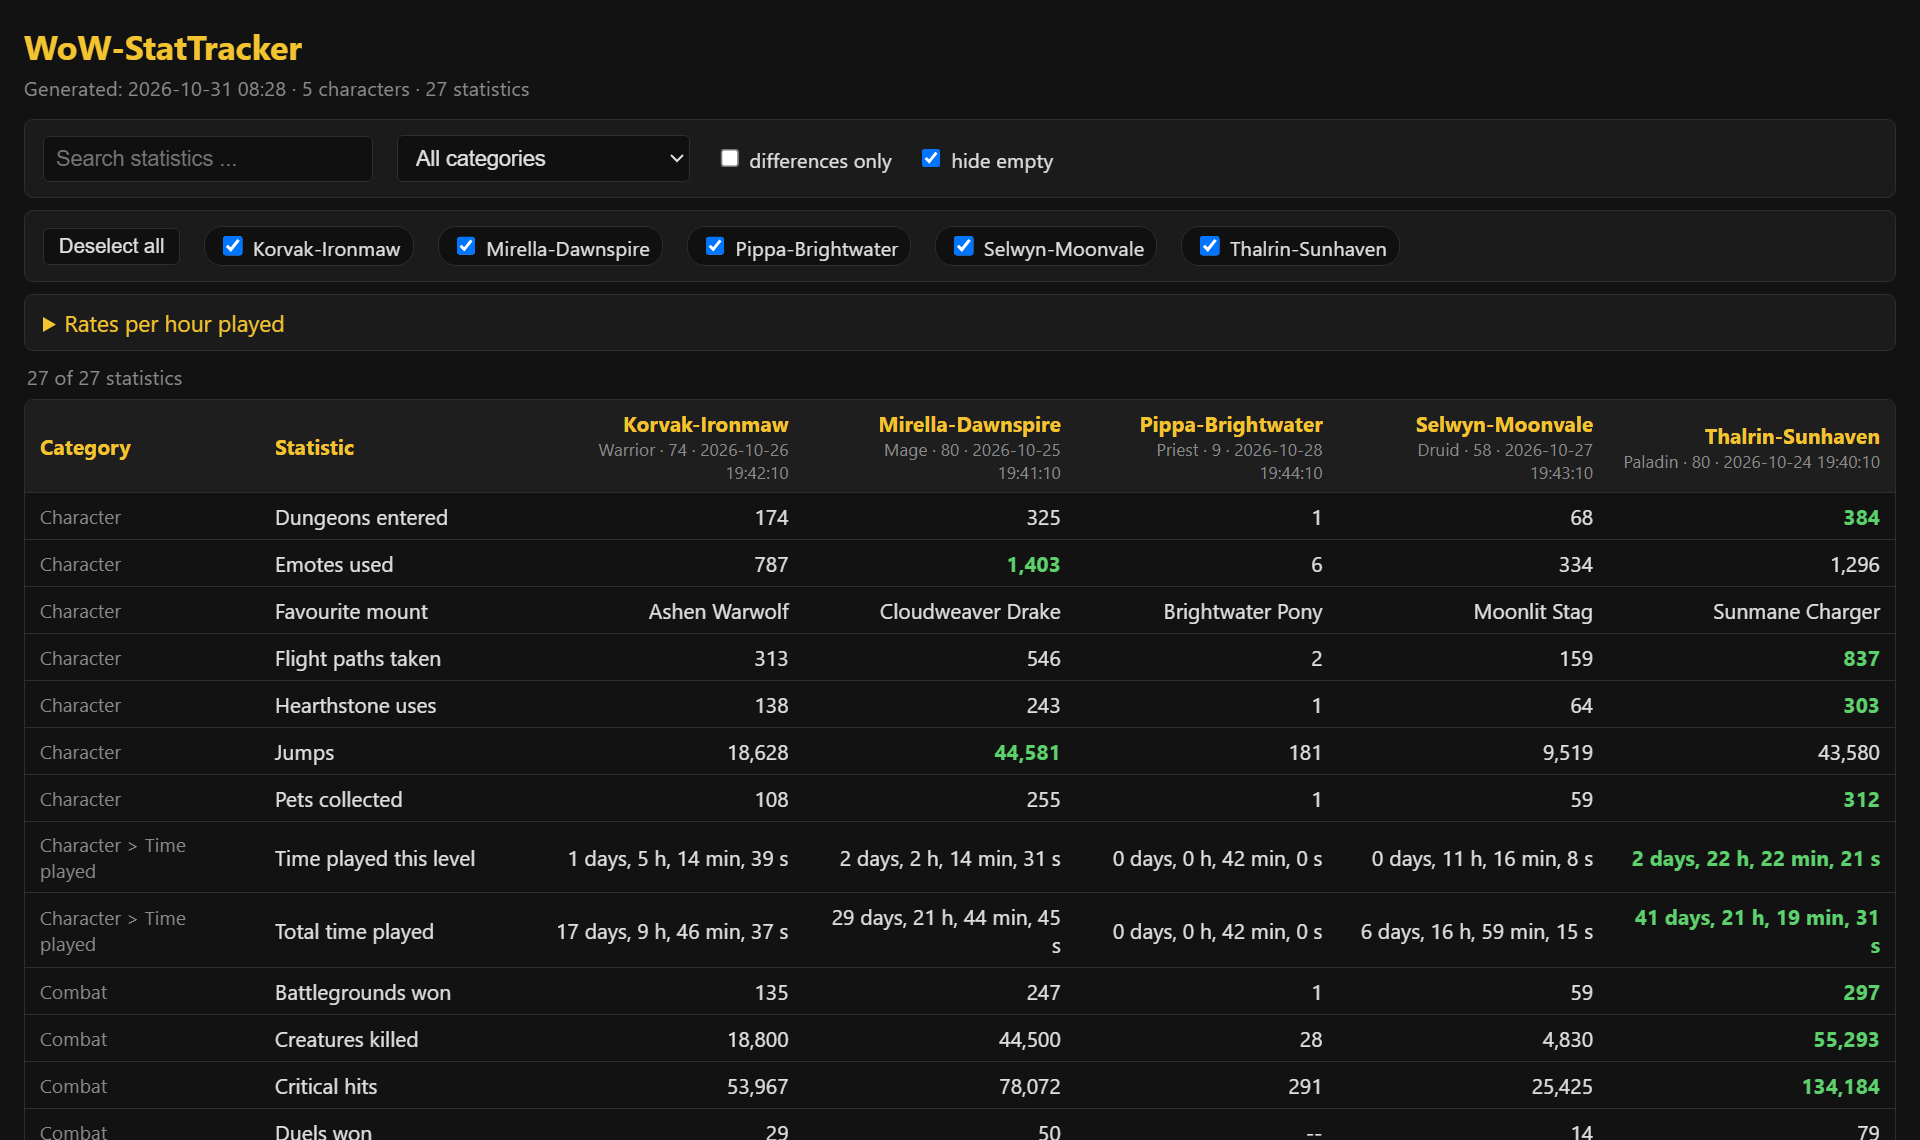
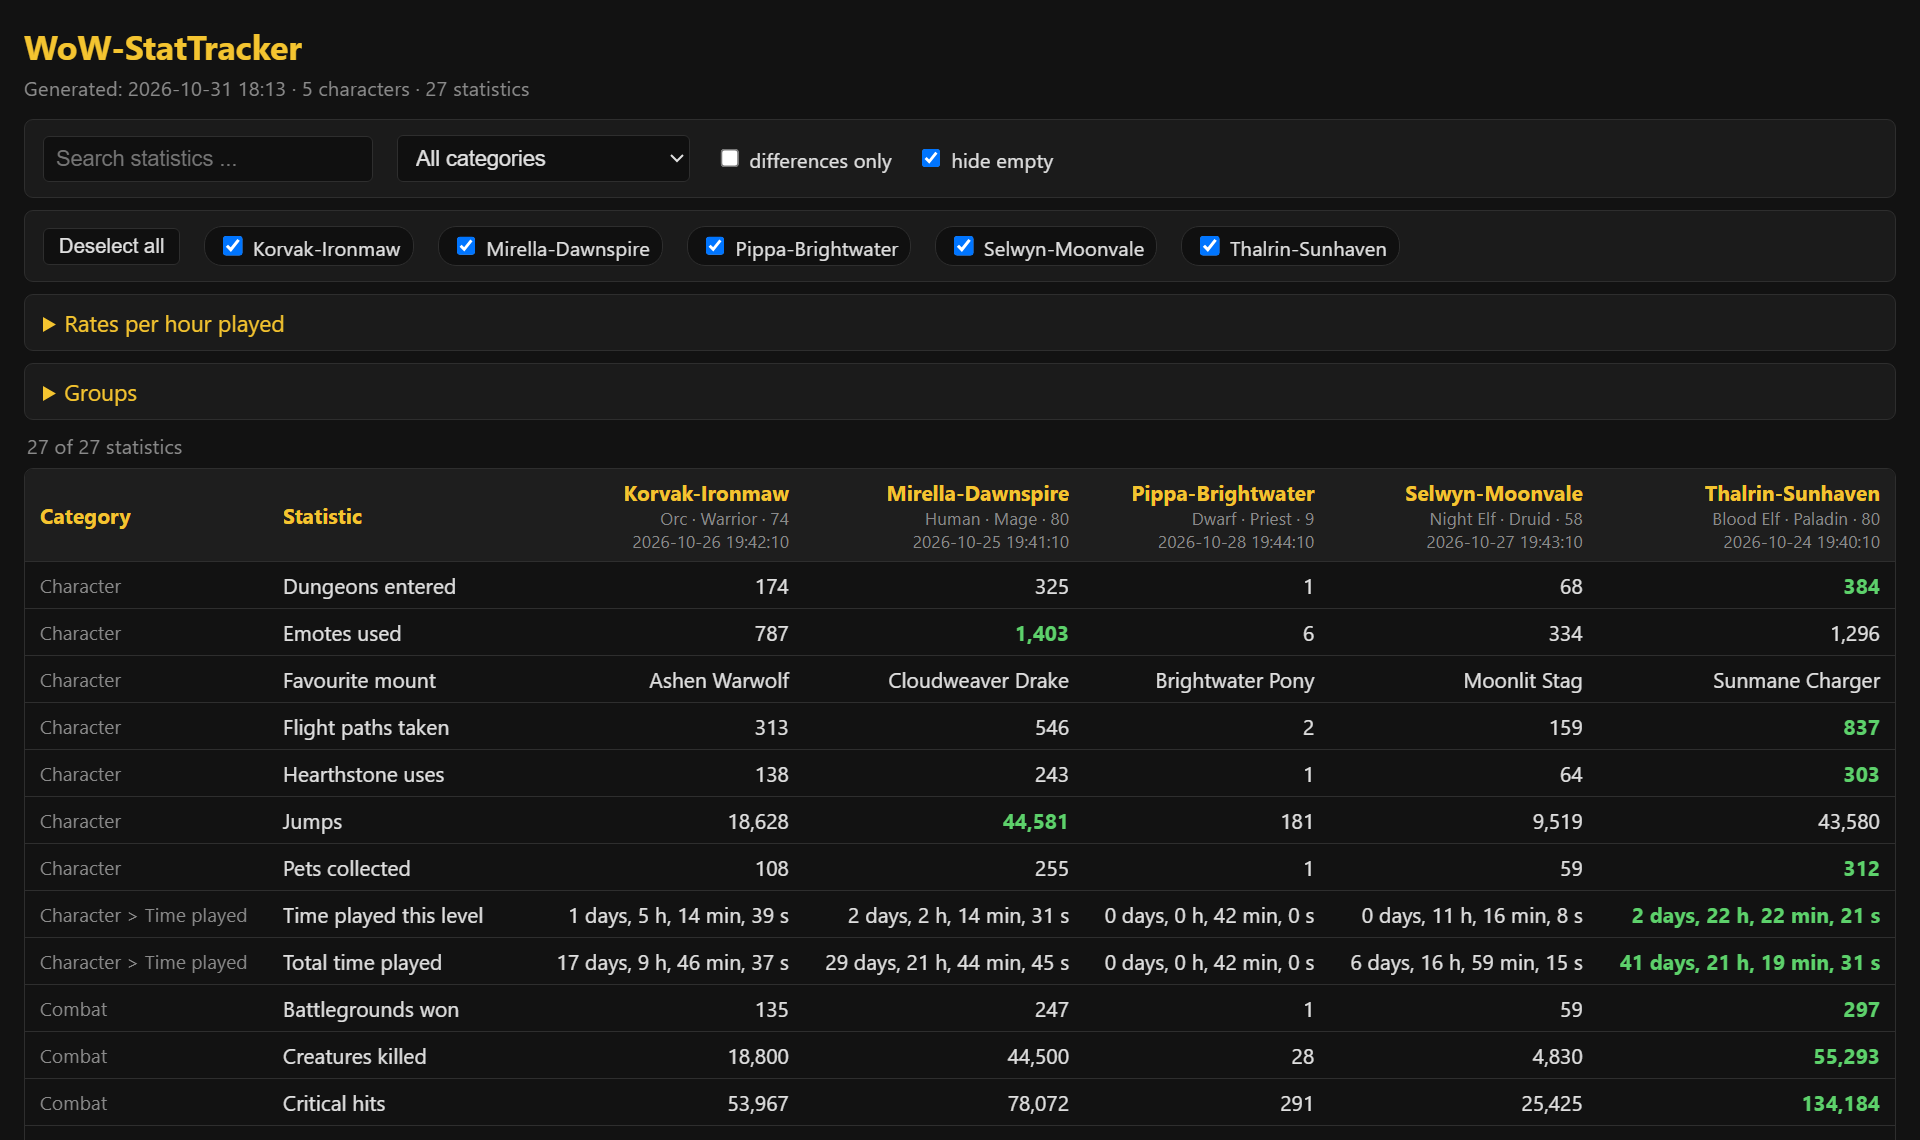
Document the Groups block and redo the landing page screenshots
Both READMEs, the changelog (Unreleased) and the landing page describe the race
under each name and the Groups block, including that class and race of a
character not scanned again since the addon update are listed as "unknown" and
that the Excel export has no groups.

make_demo.py writes a fourth page variant, shot-groups.html (grouped by faction,
two more statistics added); DEVELOPMENT.md has the recipe. The stats, rates and
compare pictures are taken again (the column header changed) and groups-en/de
are new. All pictures show invented demo data.

diff --git a/docs/index.html b/docs/index.html
@@ -101,7 +101,9 @@
       <h2><span class="en">What it does</span><span class="de">Was es kann</span></h2>
       <div class="grid">
         <div class="card"><h3><span class="en">Compare characters</span><span class="de">Charaktere vergleichen</span></h3>
-          <p><span class="en">Search, filter by category, show only differences, sort by any character. The best value in a row is highlighted. One button selects or deselects all characters.</span><span class="de">Suchen, nach Kategorie filtern, nur Unterschiede zeigen, nach jedem Charakter sortieren. Der beste Wert einer Zeile ist hervorgehoben. Ein Knopf wählt alle Charaktere an oder ab.</span></p></div>
+          <p><span class="en">Search, filter by category, show only differences, sort by any character. The best value in a row is highlighted. One button selects or deselects all characters. Race, class and level are shown under each name.</span><span class="de">Suchen, nach Kategorie filtern, nur Unterschiede zeigen, nach jedem Charakter sortieren. Der beste Wert einer Zeile ist hervorgehoben. Ein Knopf wählt alle Charaktere an oder ab. Rasse, Klasse und Level stehen unter jedem Namen.</span></p></div>
+        <div class="card"><h3><span class="en">Groups</span><span class="de">Gruppen</span></h3>
+          <p><span class="en">Group the characters by class, race, faction or realm and see the number of characters, the average level, the played time and the rates per hour of each group. Any other numeric statistic can be added as a column (sum, average or maximum). A character without a recorded class or race is listed as "unknown" - nothing is guessed.</span><span class="de">Gruppiere die Charaktere nach Klasse, Rasse, Fraktion oder Realm und sieh Anzahl, Durchschnittslevel, Spielzeit und Raten pro Stunde je Gruppe. Jede andere Statistik mit Zahl lässt sich als Spalte hinzufügen (Summe, Durchschnitt oder Maximum). Ein Charakter ohne erfasste Klasse oder Rasse steht unter „unbekannt“ - es wird nichts geraten.</span></p></div>
         <div class="card"><h3><span class="en">Rates per hour played</span><span class="de">Raten pro Spielstunde</span></h3>
           <p><span class="en">Creatures killed, honorable kills, deaths and gold per hour of played time - for each character and as a total over all of them. If a number cannot be worked out, the page says why instead of guessing.</span><span class="de">Getötete Kreaturen, Ehrenhafte Siege, Tode und Gold pro Spielstunde - je Charakter und insgesamt über alle. Lässt sich eine Zahl nicht berechnen, nennt die Seite den Grund, statt zu raten.</span></p></div>
         <div class="card"><h3><span class="en">Excel export</span><span class="de">Excel-Export</span></h3>
@@ -131,6 +133,11 @@
           <img class="shot en" loading="lazy" src="images/compare-en.png" width="1920" height="1140" alt="The stats page with one character deselected and the table sorted by a character.">
           <img class="shot de" loading="lazy" src="images/compare-de.png" width="1920" height="1140" alt="Die Statistik-Seite mit einem abgewählten Charakter und nach einem Charakter sortierter Tabelle.">
           <figcaption><span class="en">The stats page with one character deselected and the table sorted by the first character; the best value of each row is green.</span><span class="de">Die Statistik-Seite mit einem abgewählten Charakter, sortiert nach dem ersten Charakter; der beste Wert jeder Zeile ist grün.</span></figcaption>
+        </figure>
+        <figure>
+          <img class="shot en" loading="lazy" src="images/groups-en.png" width="1920" height="1200" alt="The stats page with the Groups block open: characters grouped by faction with the number of characters, average level, played time, rates per hour and two added statistics, and a total row.">
+          <img class="shot de" loading="lazy" src="images/groups-de.png" width="1920" height="1200" alt="Die Statistik-Seite mit geöffnetem Gruppen-Block: Charaktere nach Fraktion gruppiert mit Anzahl, Durchschnittslevel, Spielzeit, Raten pro Stunde und zwei hinzugefügten Statistiken sowie einer Gesamtzeile.">
+          <figcaption><span class="en">The Groups block: here by faction, with two more statistics added as columns. Where a number is missing for a character, the cell says how many characters it is made of.</span><span class="de">Der Gruppen-Block: hier nach Fraktion, mit zwei weiteren Statistiken als Spalten. Fehlt bei einem Charakter eine Zahl, sagt die Zelle, aus wie vielen Charakteren sie besteht.</span></figcaption>
         </figure>
         <figure>
           <img class="shot en" loading="lazy" src="images/rates-en.png" width="1920" height="1140" alt="The stats page with the rates block open: creatures killed, honorable kills, deaths and gold per hour for each character and as a total; one character shows why it has no rate.">

diff --git a/tools/make_demo.py b/tools/make_demo.py
@@ -8,10 +8,11 @@ same pictures can be made again after the stats page changes.
 
 Per language (the statistic names come from the client, so each language gets its own
 database) it writes a SavedVariables-style StatTracker.lua, runs the normal stat_parser
-on it and also writes three variants of the page for the screenshots:
+on it and also writes four variants of the page for the screenshots:
   shot-stats.html    the page as it is
   shot-rates.html    the same, with the rates block opened
   shot-compare.html  one character deselected, sorted by the first character
+  shot-groups.html   the Groups block opened: by faction, two more statistics added
 
 Usage (from the repository root):
   python tools/make_demo.py --out <folder>             # both languages
@@ -95,6 +96,10 @@ GENERIC_FIRST_ID = 9001            # far away from the real IDs used above
 
 COMPARE_JS = ('$("chk_Selwyn-Moonvale").checked = false; '
               'sortChar = "Korvak-Ironmaw"; sortDir = -1; render();')
+# the demo statistics 9003 (Jumps, a counter) and 328 (Total gold acquired, shown in gold)
+GROUPS_JS = ('$("groups").open = true; $("groupBy").value = "faction"; '
+             '[["9003", "sum"], ["328", "avg"]].forEach(p => { $("xstat").value = p[0]; $("xagg").value = p[1]; '
+             '$("xadd").click(); }); renderGroups();')
 
 
 def _number(n, i):
@@ -174,8 +179,10 @@ def shot_variants(html):
     get the extra lines; the real template is not touched."""
     rates = html.replace('<details class="rates"', '<details class="rates" open', 1)
     compare = html.replace("init();\n</script>", f"init();\n{COMPARE_JS}\n</script>", 1)
-    assert rates != html and compare != html, "template changed: adjust shot_variants"
-    return {"shot-stats.html": html, "shot-rates.html": rates, "shot-compare.html": compare}
+    groups = html.replace("init();\n</script>", f"init();\n{GROUPS_JS}\n</script>", 1)
+    assert rates != html and compare != html and groups != html, "template changed: adjust shot_variants"
+    return {"shot-stats.html": html, "shot-rates.html": rates, "shot-compare.html": compare,
+            "shot-groups.html": groups}
 
 
 def make(out_dir, lang):

diff --git a/tests/test_make_demo.py b/tests/test_make_demo.py
@@ -74,6 +74,8 @@ def test_screenshot_variants_leave_the_real_page_alone(tmp_path):
     assert 'class="rates" open' not in page and "sortChar = \"Korvak" not in page
     assert 'class="rates" open' in (folder / "shot-rates.html").read_text(encoding="utf-8")
     assert 'sortChar = "Korvak-Ironmaw"' in (folder / "shot-compare.html").read_text(encoding="utf-8")
+    assert '$("groups").open = true' not in page
+    assert '$("groups").open = true' in (folder / "shot-groups.html").read_text(encoding="utf-8")
 
 
 def test_language_is_restored(tmp_path):

diff --git a/README.md b/README.md
@@ -22,7 +22,9 @@ StatTracker reads the **game statistics** of your World of Warcraft characters t
 
 Repeat step 5/6 whenever you want fresh numbers. Old scans stay in the database.
 
-The addon also records each character's class (as a language-independent name) and race with every scan. Scans taken with an older addon have no race, and it is never filled in afterwards: run *1. Install / update addon* and scan the character again to get it. The stats page does not use it yet.
+The addon also records each character's class (as a language-independent name) and race with every scan. Scans taken with an older addon have no race, and it is never filled in afterwards: run *1. Install / update addon* and scan the character again to get it.
+
+The stats page shows race, class and level under each name. Its collapsible *Groups* block groups the characters ticked above by class, race, faction or realm and shows per group the number of characters, the average level, the total played time and the four rates per hour; any other statistic with a number can be added as a column (sum, average or maximum). Class and race are grouped by the language-independent name from the game, so a character that has not been scanned again since the addon update is listed under "unknown" until you do - nothing is guessed. The Excel export has no groups.
 
 ## Game versions
 

diff --git a/docs/DEVELOPMENT.md b/docs/DEVELOPMENT.md
@@ -59,12 +59,13 @@ exists in both languages and that nothing is loaded from a third party. If you c
 repository owner/name, update the GitHub links in `docs/index.html` as well.
 
 To redo the screenshots after the stats page changed: `python tools/make_demo.py --out <folder outside the repository>`
-writes invented demo data per language and three variants of the page (`shot-stats.html`,
-`shot-rates.html`, `shot-compare.html`). Take one picture of each with Edge or Chrome in headless
-mode, 1280 x 760 at scale 1.5 (= 1920 x 1140), for example
+writes invented demo data per language and four variants of the page (`shot-stats.html`,
+`shot-rates.html`, `shot-compare.html`, `shot-groups.html`). Take one picture of each with Edge or
+Chrome in headless mode, 1280 x 760 at scale 1.5 (= 1920 x 1140; the groups picture 1280 x 800 =
+1920 x 1200), for example
 `msedge --headless=new --hide-scrollbars --force-device-scale-factor=1.5 --window-size=1280,760 --screenshot=stats-en.png file:///<folder>/en/shot-stats.html`,
-and copy them to `docs/images/` as `stats-`, `rates-` and `compare-` plus `en`/`de`. `app-*.png`
-(the program window) is taken by hand.
+and copy them to `docs/images/` as `stats-`, `rates-`, `compare-` and `groups-` plus `en`/`de`.
+`app-*.png` (the program window) is taken by hand.
 
 ## Layout
 

diff --git a/CHANGELOG.md b/CHANGELOG.md
@@ -1,5 +1,13 @@
 # Changelog
 
+## Unreleased
+
+- New: the stats page shows the race next to class and level of each character, in the rates block and in the column header. The scan date moves to a line of its own in the column header
+- New: a collapsible *Groups* block groups the characters ticked above by class, race, faction or realm and shows per group the number of characters, the average level, the total played time and the four rates per hour (sum of counters / sum of hours, "n of m characters" where one cannot be used). Any statistic with a number can be added as a column (sum, average or maximum; gold is shown in gold)
+- Note: class and race are grouped by the language-independent name the addon records since 0.1.5. A character not scanned again since then is listed under "unknown", nothing is guessed from the stored, gender dependent text. Faction and realm work for every character
+- Note: the Excel export is unchanged and has no groups
+- Docs: the landing page and both READMEs describe the Groups block, the screenshots are redone
+
 ## 0.1.5
 
 - New: with every scan the addon records the class (as a language-independent name) and the race of the character, and the database keeps both per scan (database schema 2). The stats page does not use them yet
